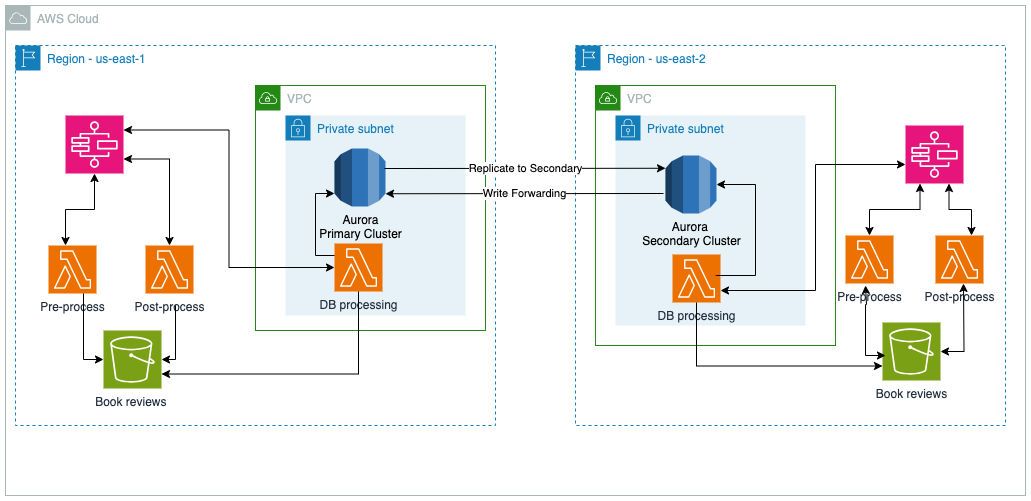
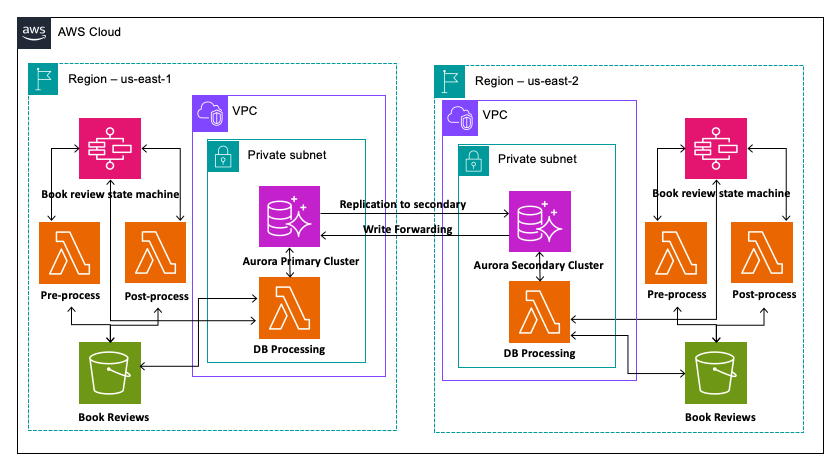
README blog url update and updated solution architecture diagram

diff --git a/README.md b/README.md
@@ -62,7 +62,7 @@ Follow the instructions in blog post to test the solution.
 
 ## Further Reading:
 
-- Blogpost: [Use Amazon Aurora Global Database to build resilient multi-Region web applications](https://aws.amazon.com/blogs/TBD/)
+- Blogpost: [Use Amazon Aurora Global Database to build resilient multi-Region web applications](https://aws.amazon.com/blogs/blogs/database/use-amazon-aurora-global-database-to-build-resilient-multi-region-applications/)
 
 ## License
 
